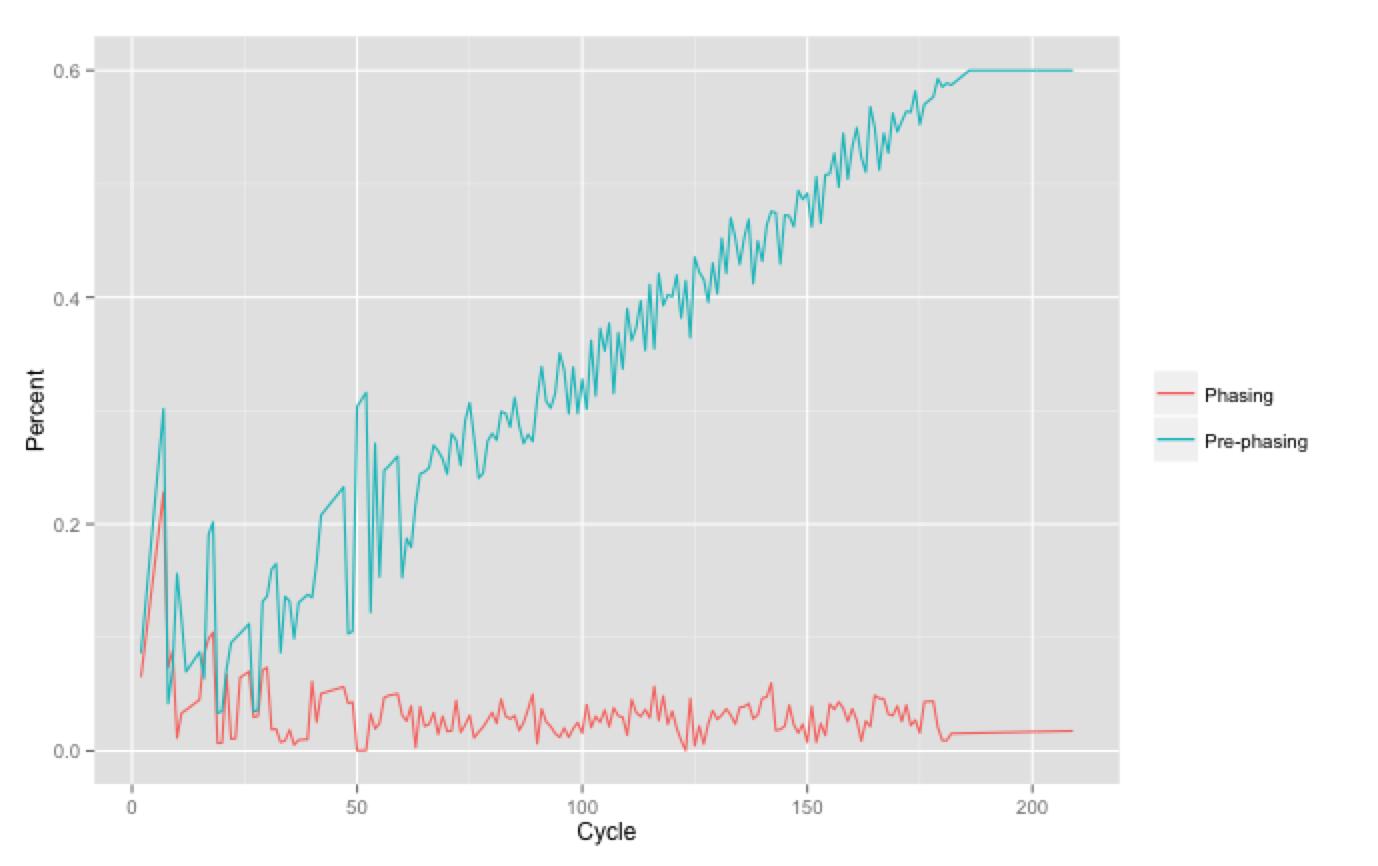
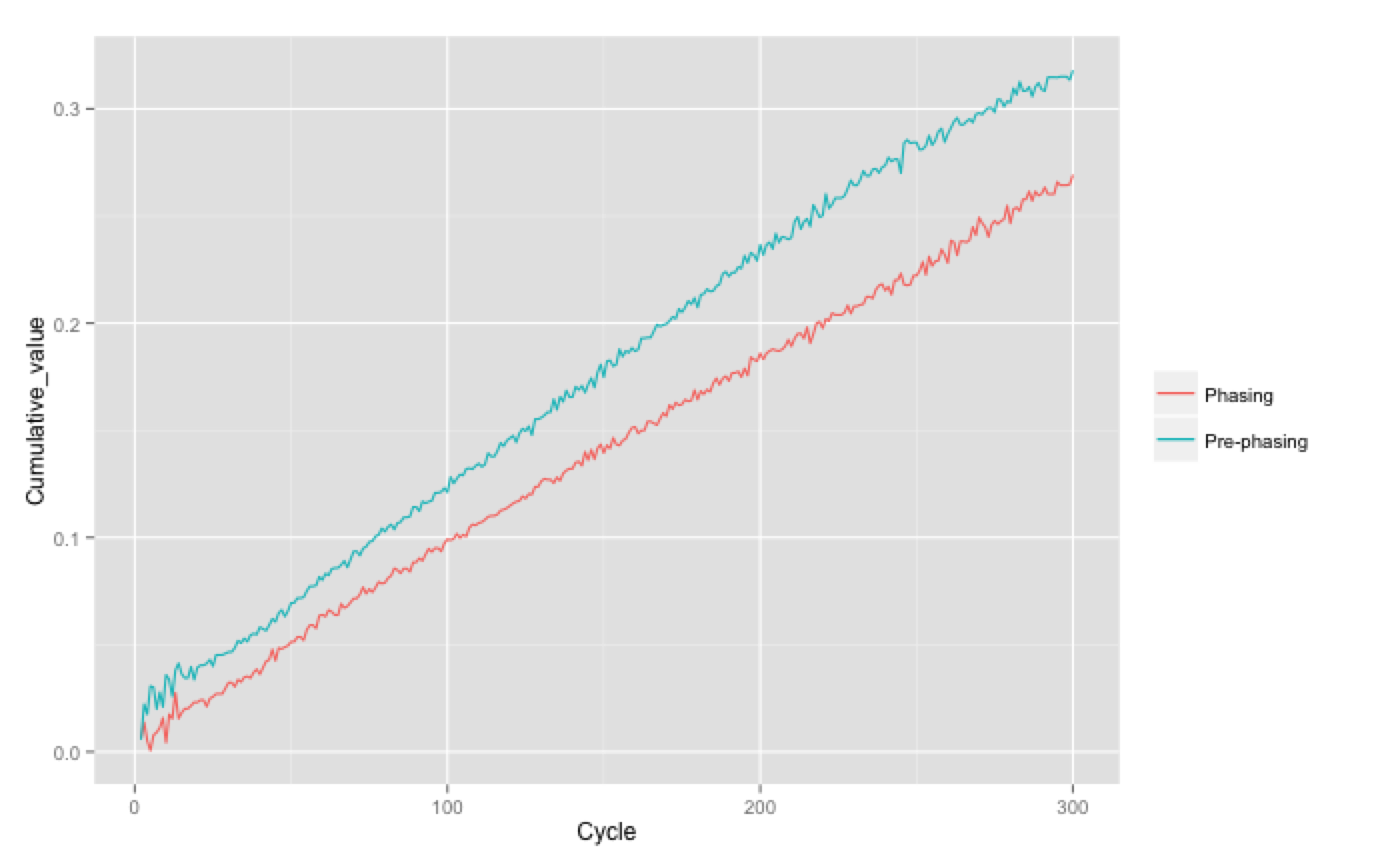
Changed y lable

diff --git a/_posts/2013-11-18-diagnosing-phasing-problems.md b/_posts/2013-11-18-diagnosing-phasing-problems.md
@@ -24,7 +24,7 @@ Historically, the phasing and pre-phasing were estimated over the first 12 cycle
 D:\Illumina\MiSeqAnalysis\131118_M00875_0072_000000000-A6B08\Data\Intensities\BaseCalls\Phasing\EmpiricalPhasingCorrection_1_1_1101.txt
 ```
 
-Plotting this can help diagnose problems, shown below is a good run and a bad run - can you tell which is which?! In the bottom run the pre-phasing was so bad it actually reached the maximum allowable pre-phasing value of 0.6%.
+Plotting this can help diagnose problems, shown below is a good run and a bad run - can you tell which is which?! In the bottom run the pre-phasing was so bad it actually reached the maximum allowable pre-phasing correction of 0.6. As this are cumulative values the actual phasing per cycle is the gradient of the line (approximately 0.1% in the good run).
 
 <img src="/images/emp_phasing2.png" alt="Empirical phasing 2" width="575">
 <img src="/images/emp_phasing1.png" alt="Empirical phasing 1" width="575">
